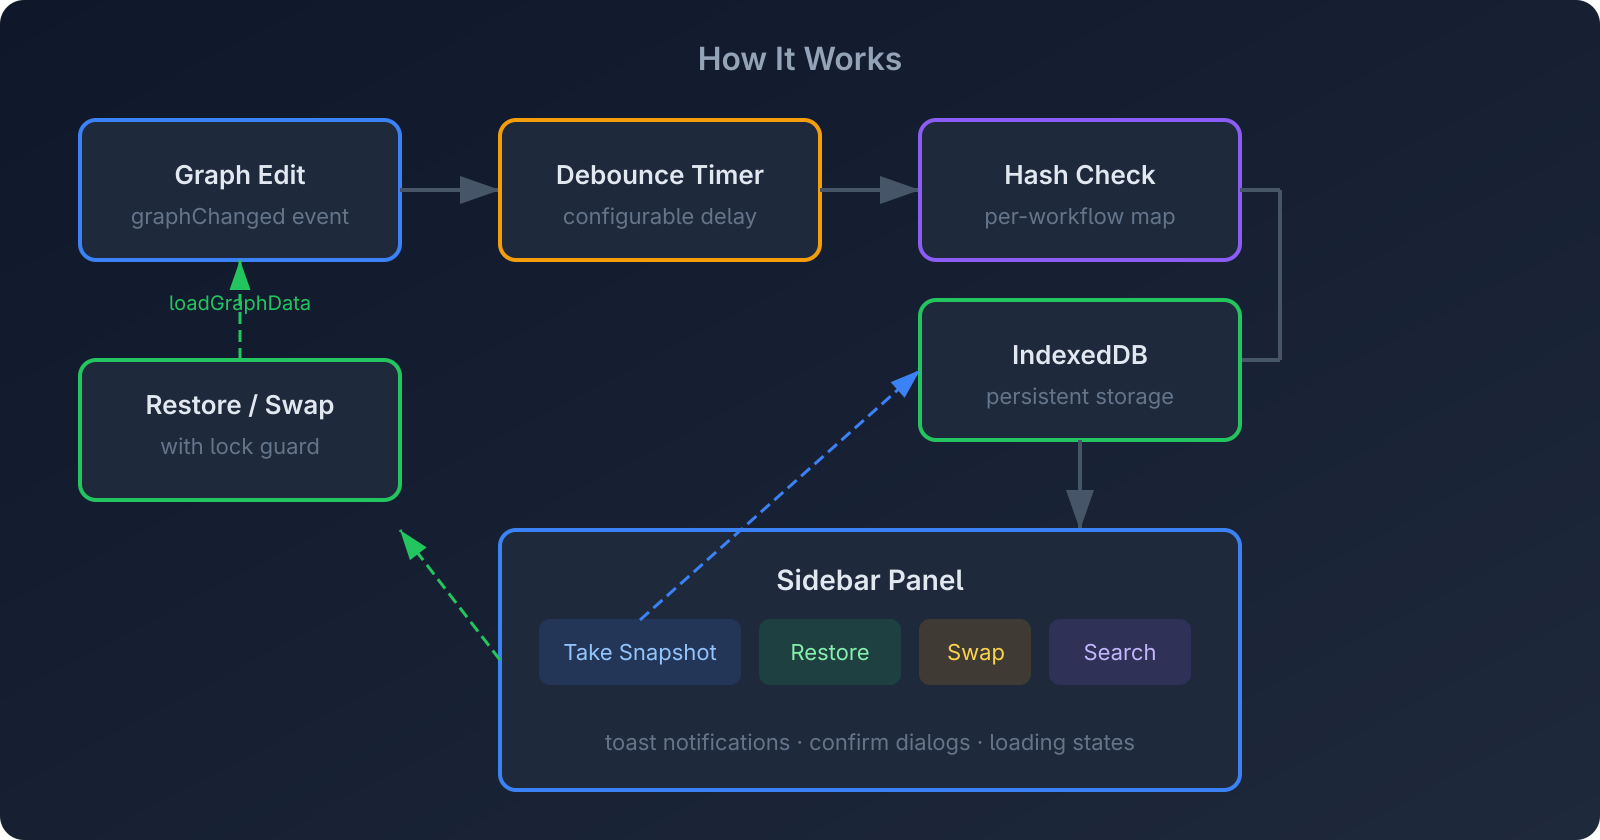
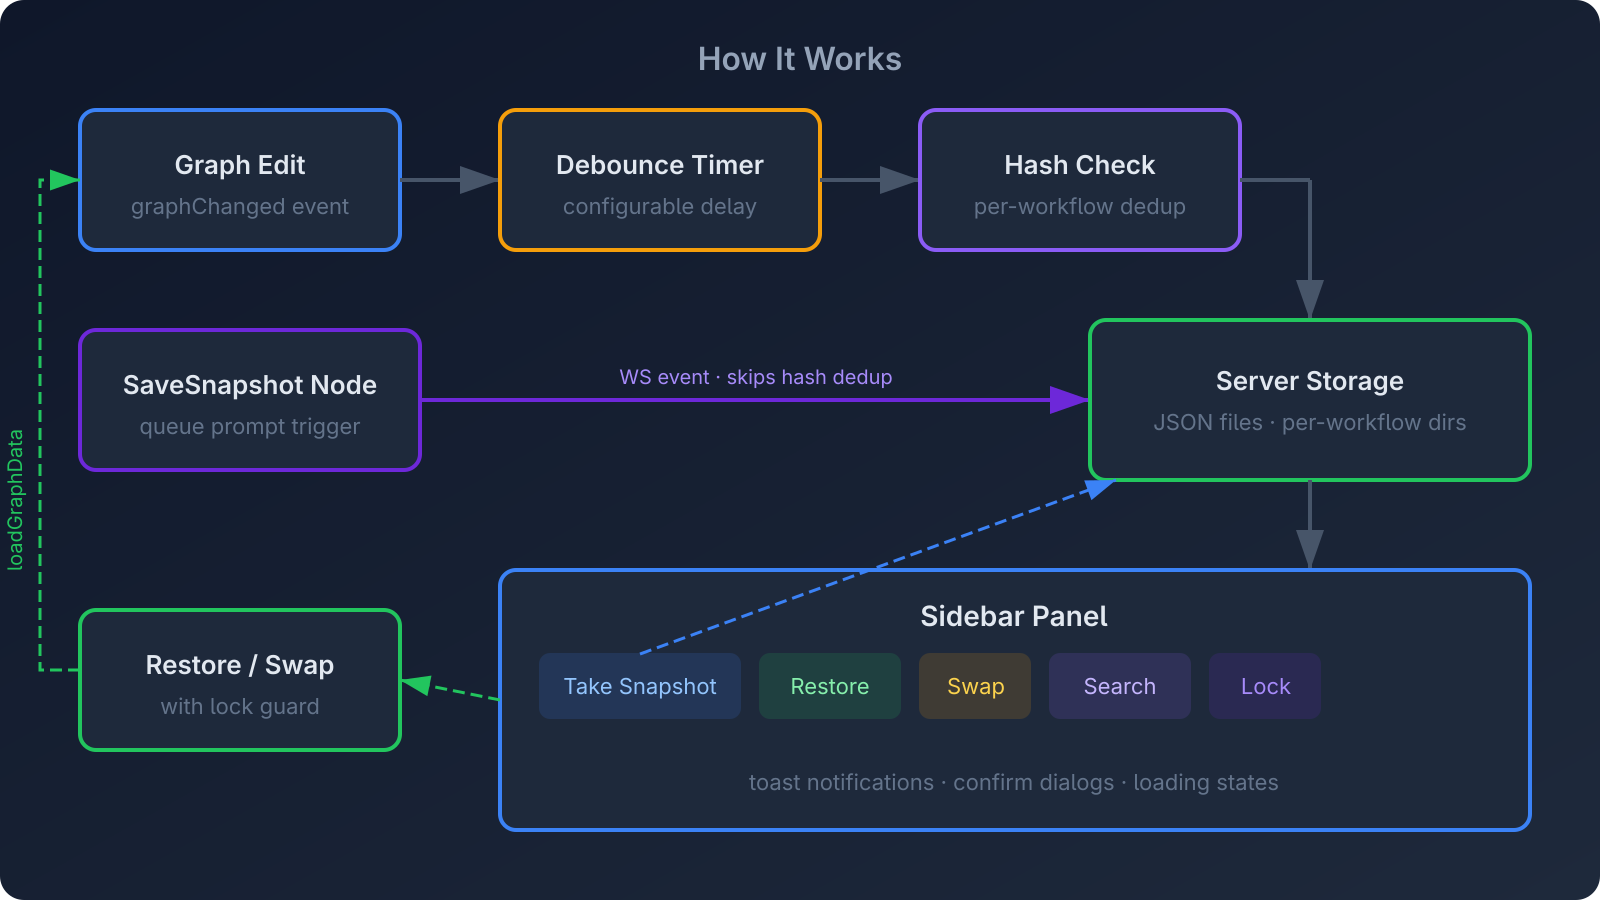
Update README and architecture diagram for v2.1.0
Add SaveSnapshot node to features list and architecture diagram,
update storage label from IndexedDB to Server Storage, add
maxNodeSnapshots setting to the table, and document the
node-triggered capture flow.

diff --git a/README.md b/README.md
@@ -5,7 +5,7 @@
 <p align="center">
[1 lines of base64/hex data omitted]
   <a href="LICENSE"><img src="https://img.shields.io/badge/license-MIT-green" alt="MIT License"/></a>
-  <img src="https://img.shields.io/badge/version-2.0.0-blue" alt="Version"/>
+  <img src="https://img.shields.io/badge/version-2.1.0-blue" alt="Version"/>
   <img src="https://img.shields.io/badge/ComfyUI-Extension-purple" alt="ComfyUI Extension"/>
 </p>
 
@@ -27,6 +27,7 @@
 - **Per-workflow storage** — Each workflow has its own independent snapshot history
 - **Theme-aware UI** — Adapts to light and dark ComfyUI themes
 - **Toast notifications** — Visual feedback for save, restore, and error operations
+- **SaveSnapshot node** — Trigger snapshot captures from your workflow with a custom node; node snapshots are visually distinct (purple border + "Node" badge) and have their own rolling limit
 - **Lock/pin snapshots** — Protect important snapshots from auto-pruning and "Clear All" with a single click
 - **Concurrency-safe** — Lock guard prevents double-click issues during restore
 - **Server-side storage** — Snapshots persist on the ComfyUI server's filesystem, accessible from any browser
@@ -105,6 +106,7 @@ All settings are available in **ComfyUI Settings > Snapshot Manager > Capture Se
 | **Capture delay** | Slider | `3s` | Seconds to wait after the last edit before auto-capturing (1–30s) |
 | **Max snapshots per workflow** | Slider | `50` | Maximum number of unlocked snapshots kept per workflow (5–200). Oldest unlocked are pruned automatically; locked snapshots are never pruned |
 | **Capture on workflow load** | Toggle | `On` | Save an "Initial" snapshot when a workflow is first loaded |
+| **Max node-triggered snapshots** | Slider | `5` | Rolling limit for SaveSnapshot node captures per workflow (1–50). Node snapshots are pruned independently from auto/manual snapshots |
 
 ## Architecture
 
@@ -112,7 +114,7 @@ All settings are available in **ComfyUI Settings > Snapshot Manager > Capture Se
   <img src="assets/architecture.png" alt="Architecture Diagram" width="100%"/>
 </p>
 
-**Data flow:**
+**Auto/manual capture flow:**
 
 1. **Graph edits** trigger a `graphChanged` event
 2. A **debounce timer** prevents excessive writes
@@ -120,6 +122,13 @@ All settings are available in **ComfyUI Settings > Snapshot Manager > Capture Se
 4. New snapshots are sent to the **server** and stored as individual JSON files under `data/snapshots/`
 5. The **sidebar panel** fetches snapshots from the server and renders the snapshot list
 6. **Restore/Swap** loads graph data back into ComfyUI with a lock guard to prevent concurrent operations
+
+**Node-triggered capture flow:**
+
+1. **SaveSnapshot node** executes during a queue prompt run
+2. A **WebSocket event** is sent to the frontend, **skipping hash dedup** (the workflow doesn't change between runs)
+3. The snapshot is saved with `source: "node"` and pruned against its own rolling limit (`maxNodeSnapshots`)
+4. Node snapshots appear in the sidebar with a **purple left border** and **"Node" badge**
 
 **Storage:** Snapshots are stored as JSON files on the server at `<extension_dir>/data/snapshots/<workflow_key>/<id>.json`. They persist across browser sessions, ComfyUI restarts, and are accessible from any browser connecting to the same server.
 
